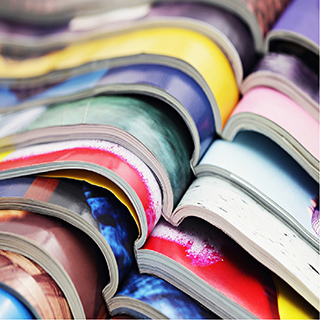
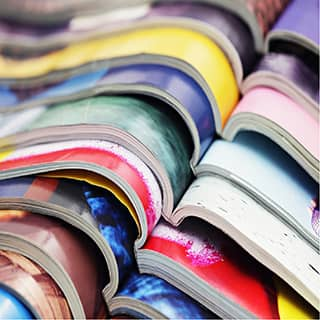
compression images

diff --git a/style.css b/style.css
@@ -882,7 +882,7 @@ h4 {
 }
 
 .bg-presentation {
-    background-image: url("img/image-de-presentation.bmp");
+    background-image: url("img/image-de-presentation.jpg");
 }
 
 @media (max-width: 1024px) {
